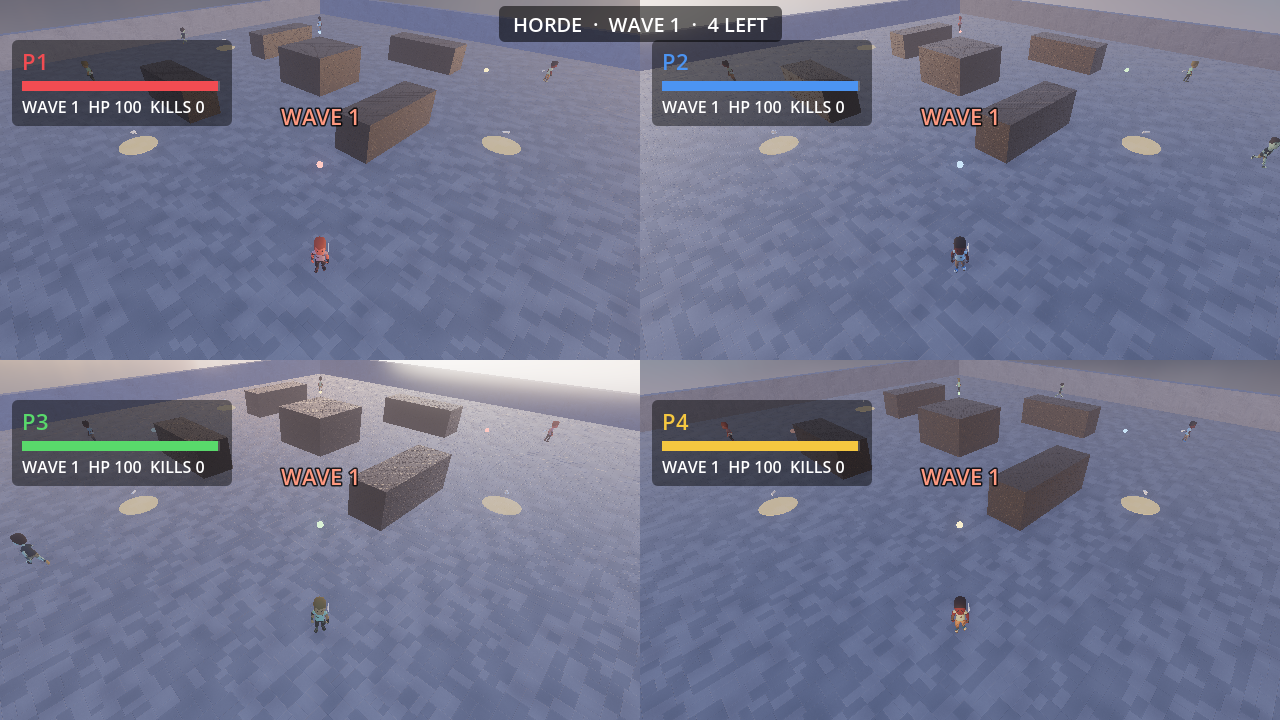
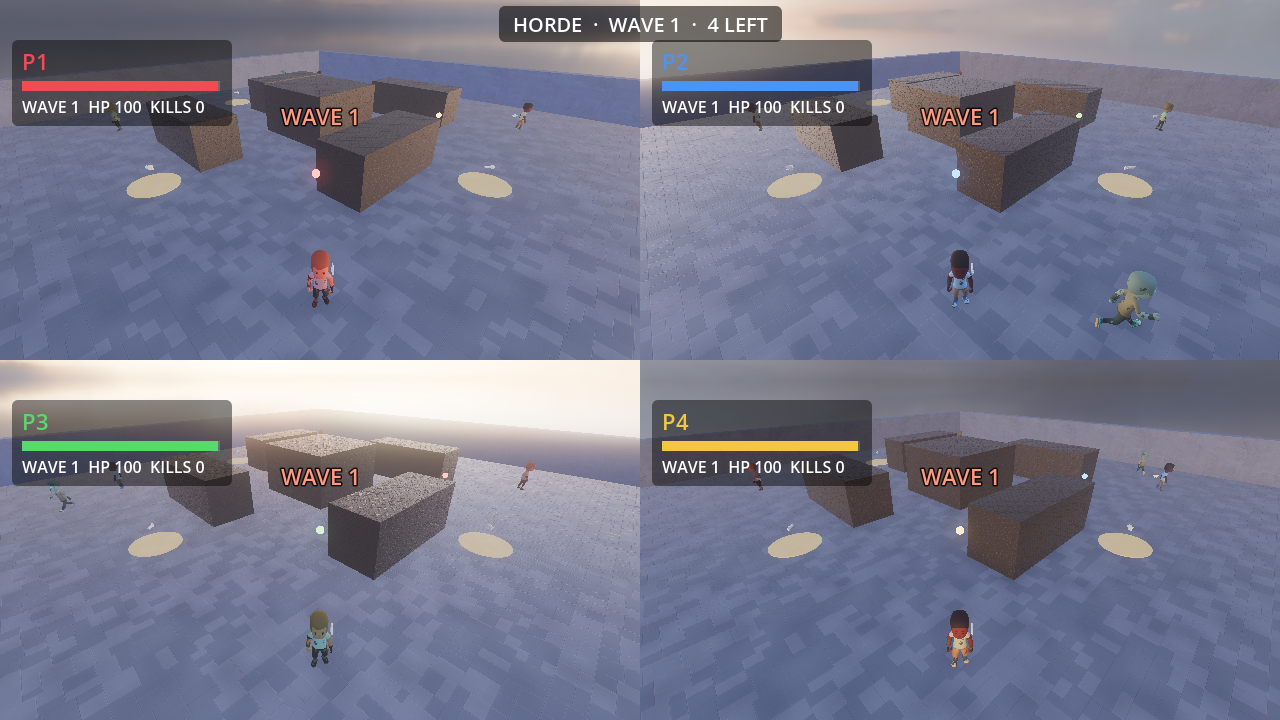
Bring the camera in and shrink the arena to match
The player was about a tenth of their viewport tall. The camera sat 7.5m
back and 9m up, framed so the whole 48m arena was visible, and every
attempt to pull it closer filled the frame with sky above the walls — so
it kept going up rather than in.

The underlying problem was the arena, not the camera: 48m across is 27
body-lengths, too big for four people to keep running into each other,
and any camera that showed enough of it made the player a speck. The
arena is now 32m, the camera 5m back and 5.5m up at a slightly wider
field of view, and the character is roughly two and a half times the
size on screen with the far wall still in frame.

The arena geometry is now generated (tools/generate_arena.py) from
ARENA_HALF_EXTENT, keeping the hand-tuned environment, materials and
lights intact, so the next size change is one constant and one command
instead of a pass of hand edits over a scene file. Cover positions are
fractions of the half extent and scale with it.

Horde spawn clearance is a named constant scaled to the smaller arena,
with more placement attempts; the old fixed 8m would have been
unreachable from the corners.

187 checks pass; both committed renders were re-taken and inspected.

Claude-Session: https://claude.ai/code/session_01EkjMq93qq8N6dCfMpcGCbk

diff --git a/tools/generate_arena.py b/tools/generate_arena.py
@@ -1,0 +1,108 @@
+#!/usr/bin/env python3
+"""Regenerates the geometry in scenes/arena.tscn from scripts/config.gd.
+
+Keeps everything that was tuned by hand — environment, sky, materials,
+lights — and rewrites only the box sub-resources and the floor, wall and
+cover nodes, so the arena's size lives in one constant.
+
+    python3 tools/generate_arena.py
+"""
+import math
+import re
+from pathlib import Path
+
+ROOT = Path(__file__).resolve().parent.parent
+CONFIG = ROOT / "scripts" / "config.gd"
+SCENE = ROOT / "scenes" / "arena.tscn"
+
+
+def const(name: str) -> float:
+    match = re.search(rf"^const {name} := ([\d.]+)", CONFIG.read_text(), re.M)
+    if not match:
+        raise SystemExit(f"{name} not found in config.gd")
+    return float(match.group(1))
+
+
+def fmt(value: float) -> str:
+    return repr(round(float(value), 6))
+
+
+def main() -> None:
+    half = const("ARENA_HALF_EXTENT")
+    wall_h = const("WALL_HEIGHT")
+    wall_t = const("WALL_THICKNESS")
+
+    # (name, centre, full size, material)
+    blocks = [("Floor", (0.0, -0.25, 0.0), (half * 2, 0.5, half * 2), "floor")]
+    edge = half + wall_t * 0.5
+    span = half * 2 + wall_t * 2
+    blocks += [
+        ("WallNorth", (0.0, wall_h / 2, -edge), (span, wall_h, wall_t), "wall"),
+        ("WallSouth", (0.0, wall_h / 2, edge), (span, wall_h, wall_t), "wall"),
+        ("WallWest", (-edge, wall_h / 2, 0.0), (wall_t, wall_h, span), "wall"),
+        ("WallEast", (edge, wall_h / 2, 0.0), (wall_t, wall_h, span), "wall"),
+    ]
+    # Cover as fractions of the half extent, so it scales with the arena.
+    # Symmetric so no spawn point is advantaged.
+    cover = [
+        ("CoverCentre", (0.0, 0.0), (2.5, 1.5, 2.5)),
+        ("CoverWest", (-0.42, -0.17), (1.2, 1.2, 3.0)),
+        ("CoverEast", (0.42, 0.17), (1.2, 1.2, 3.0)),
+        ("CoverNorth", (0.17, -0.46), (3.0, 1.2, 1.2)),
+        ("CoverSouth", (-0.17, 0.46), (3.0, 1.2, 1.2)),
+    ]
+    for name, (fx, fz), h in cover:
+        blocks.append((name, (fx * half, h[1], fz * half), (h[0] * 2, h[1] * 2, h[2] * 2), "cover"))
+
+    sizes, size_id, size_material = [], {}, {}
+    for _, _, size, material in blocks:
+        if size not in size_id:
+            size_id[size] = f"Box_{len(sizes)}"
+            sizes.append(size)
+            size_material[size] = material
+
+    scene = SCENE.read_text()
+    prelude = scene[: scene.index('[sub_resource type="BoxMesh"')]
+    nodes_start = scene.index('[node name="Arena"')
+    nodes_end = scene.index('[node name="Floor"')
+    fixed_nodes = scene[nodes_start:nodes_end]
+
+    out = [prelude.rstrip("\n"), ""]
+    for size in sizes:
+        sid = size_id[size]
+        out += [
+            f'[sub_resource type="BoxMesh" id="Mesh_{sid}"]',
+            f'material = SubResource("Material_{size_material[size]}")',
+            f"size = Vector3({fmt(size[0])}, {fmt(size[1])}, {fmt(size[2])})",
+            "",
+            f'[sub_resource type="BoxShape3D" id="Shape_{sid}"]',
+            f"size = Vector3({fmt(size[0])}, {fmt(size[1])}, {fmt(size[2])})",
+            "",
+        ]
+    out.append(fixed_nodes.rstrip("\n"))
+    out.append("")
+    for name, centre, size, _ in blocks:
+        sid = size_id[size]
+        origin = ", ".join(fmt(v) for v in centre)
+        out += [
+            f'[node name="{name}" type="StaticBody3D" parent="."]',
+            f"transform = Transform3D(1, 0, 0, 0, 1, 0, 0, 0, 1, {origin})",
+            "collision_layer = 1",
+            "collision_mask = 0",
+            "",
+            f'[node name="Mesh" type="MeshInstance3D" parent="{name}"]',
+            f'mesh = SubResource("Mesh_{sid}")',
+            "",
+            f'[node name="Collision" type="CollisionShape3D" parent="{name}"]',
+            f'shape = SubResource("Shape_{sid}")',
+            "",
+        ]
+    text = "\n".join(out)
+    steps = text.count("[ext_resource ") + text.count("[sub_resource ") + 1
+    text = re.sub(r"^\[gd_scene load_steps=\d+ format=3\]", f"[gd_scene load_steps={steps} format=3]", text, flags=re.M)
+    SCENE.write_text(text)
+    print(f"arena.tscn: half extent {half:g}m, {len(blocks)} blocks, {len(sizes)} sizes, load_steps={steps}")
+
+
+if __name__ == "__main__":
+    main()

diff --git a/CLAUDE.md b/CLAUDE.md
@@ -54,6 +54,11 @@ Grep that for real class names, method signatures and enum values.
 node's properties at the first `#` line and silently keeps defaults for the
 rest. Explanations go in `docs/`, not the scene file.
 
+**The arena is generated.** Its size is `ARENA_HALF_EXTENT` in
+`scripts/config.gd`; after changing it run `python3 tools/generate_arena.py`,
+which rewrites only the geometry in `scenes/arena.tscn` and keeps the
+hand-tuned environment, materials and lights.
+
 **Tuning values live in `scripts/config.gd`.** Balance and feel changes belong
 there, not scattered through behaviour scripts.
 
